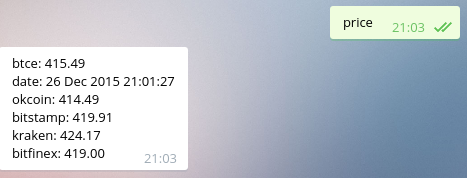
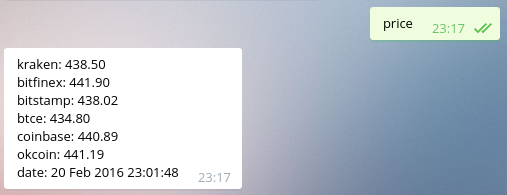
update example data

Changed region(s): [[0.0, 0.2247, 0.4797, 0.9831], [0.6895, 0.0281, 0.9893, 0.2528]]

diff --git a/api/static/app.js b/api/static/app.js
@@ -5,12 +5,14 @@ $(document).ready(function(){
 
     var bigJSONObject = [
         {
-            date: "20 Nov 2015 16:00:04",
-            kraken: "322.41",
-            bitfinex: "322.05",
-            bitstamp: "322.05",
-            okcoin: "322.18"
-        }
+	    bitfinex: "441.90",
+	    btce: "434.80",
+	    okcoin: "441.19",
+	    kraken: "438.50",
+	    coinbase: "440.89",
+	    bitstamp: "438.02",
+	    date: "20 Feb 2016 23:01:48"
+	}
     ];
 
     $.each($('.response').children(), function(idx, child) {

diff --git a/lib/get_prices.py b/lib/get_prices.py
@@ -41,7 +41,6 @@ def save_to_file():
 
 def main():
    insert_into_db()
-   save_to_file()
    
 
 if __name__ == '__main__':
